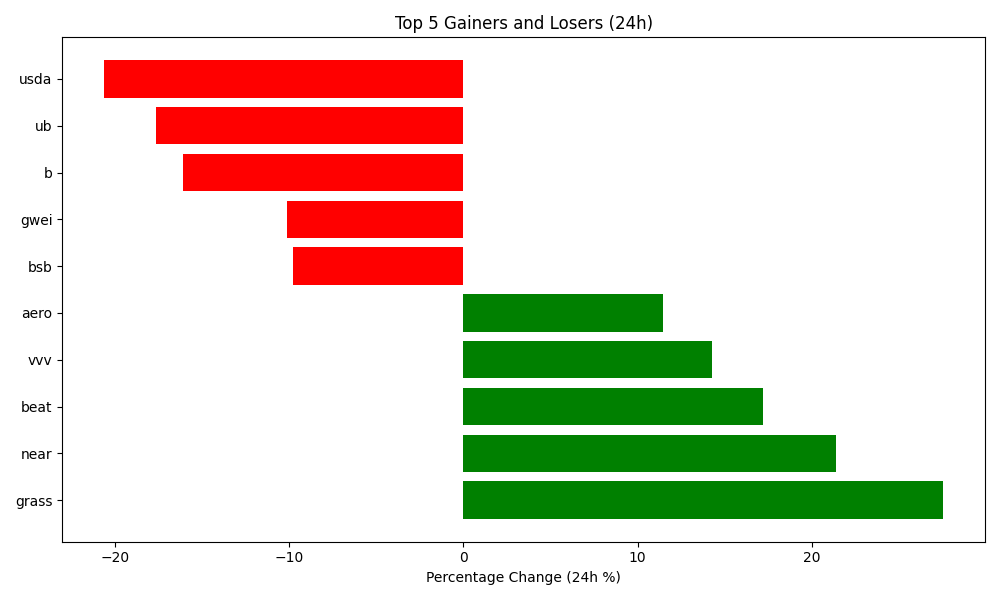
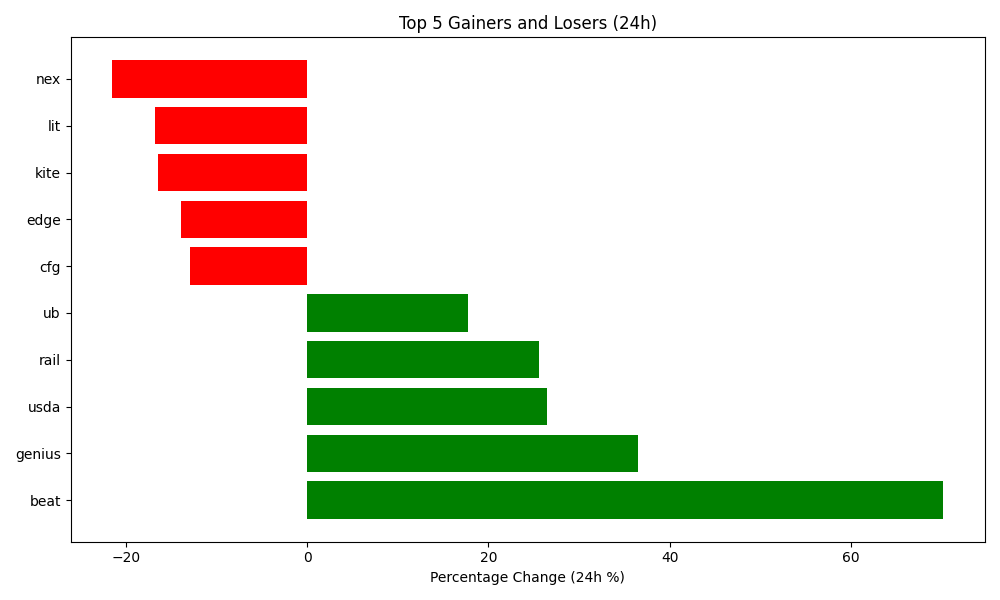
Auto-update crypto data and plot

diff --git a/README.md b/README.md
@@ -4,7 +4,7 @@ Author: Hitesh Agrawal
 This repository automatically tracks the top 5 gaining, top 5 losing, and top 5 highest volume cryptocurrencies in the last 24 hours using the CoinGecko API, Python, Matplotlib, and GitHub Actions updates the below content everyday at midnight.
 
 <!-- START_DYNAMIC_CONTENT -->
-Last updated: 2026-05-22 02:41 UTC
+Last updated: 2026-05-23 02:26 UTC
 
 ![Crypto Movers Plot](crypto_movers_plot.png)
 
@@ -12,33 +12,33 @@ Last updated: 2026-05-22 02:41 UTC
 
 | Rank | Coin | Price Change (24h %) | Volume (USD) | Current Price (USD) |
 | :--: | :--: | :------------------: | :----------: | :-----------------: |
-| 1 | grass | 27.54% | $37,595,422 | $0.4249 |
-| 2 | near | 21.37% | $667,341,938 | $2.0900 |
-| 3 | beat | 17.20% | $30,239,048 | $0.7553 |
-| 4 | vvv | 14.28% | $103,147,186 | $19.0700 |
-| 5 | aero | 11.45% | $43,721,517 | $0.4648 |
+| 1 | beat | 70.21% | $84,813,881 | $1.2900 |
+| 2 | genius | 36.51% | $119,468,293 | $0.6058 |
+| 3 | usda | 26.50% | $11 | $0.9828 |
+| 4 | rail | 25.64% | $3,874,420 | $2.4000 |
+| 5 | ub | 17.74% | $28,505,394 | $0.1129 |
 
 
 **👇 Top 5 Losers (24h)**
 
 | Rank | Coin | Price Change (24h %) | Volume (USD) | Current Price (USD) |
 | :--: | :--: | :------------------: | :----------: | :-----------------: |
-| 1 | usda | -20.62% | $705 | $0.7803 |
-| 2 | ub | -17.64% | $18,501,077 | $0.0945 |
-| 3 | b | -16.11% | $36,751,544 | $0.2954 |
-| 4 | gwei | -10.14% | $5,945,690 | $0.1161 |
-| 5 | bsb | -9.81% | $80,683,500 | $0.9460 |
+| 1 | nex | -21.50% | $50,519,864 | $0.0000 |
+| 2 | lit | -16.76% | $60,398,219 | $1.1900 |
+| 3 | kite | -16.42% | $59,861,030 | $0.1946 |
+| 4 | edge | -13.93% | $11,428,302 | $1.2400 |
+| 5 | cfg | -12.87% | $30,379,401 | $0.2755 |
 
 
 **💎 Top 5 by Trade Volume (24h)**
 
 | Rank | Coin | Price Change (24h %) | Volume (USD) | Current Price (USD) |
 | :--: | :--: | :------------------: | :----------: | :-----------------: |
-| 1 | usdt | -0.00% | $51,099,992,581 | $0.9990 |
-| 2 | btc | -0.47% | $26,860,873,978 | $77,564.0000 |
-| 3 | eth | -0.43% | $12,766,636,700 | $2,133.1600 |
-| 4 | usdc | 0.01% | $12,318,479,958 | $0.9997 |
-| 5 | sol | 0.32% | $2,957,358,847 | $86.9700 |
+| 1 | usdt | -0.01% | $55,399,268,447 | $0.9988 |
+| 2 | btc | -2.78% | $31,691,523,458 | $75,413.0000 |
+| 3 | usdc | 0.01% | $13,964,170,428 | $0.9998 |
+| 4 | eth | -3.27% | $13,134,595,626 | $2,064.4900 |
+| 5 | sol | -3.13% | $2,713,493,959 | $84.2200 |
 
 
 <!-- END_DYNAMIC_CONTENT -->
